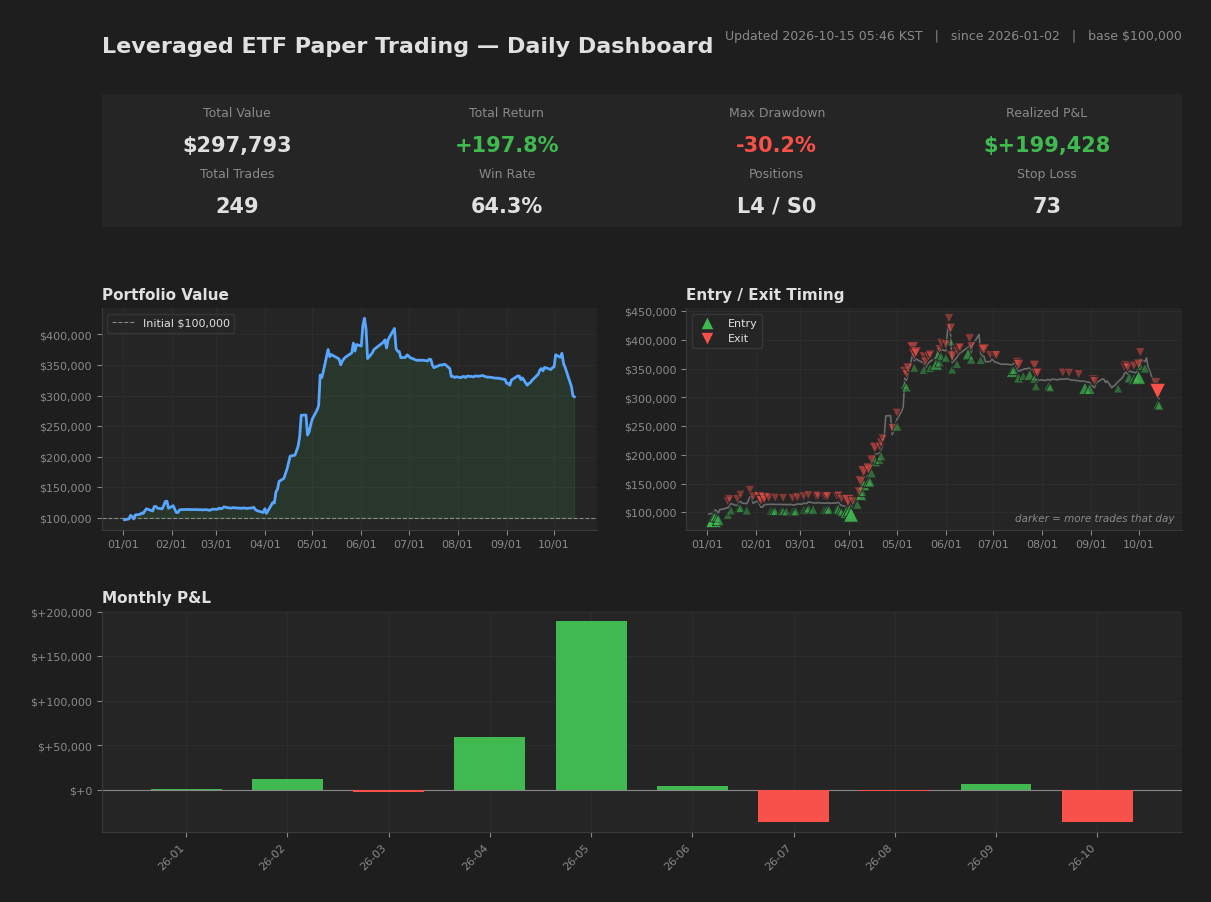
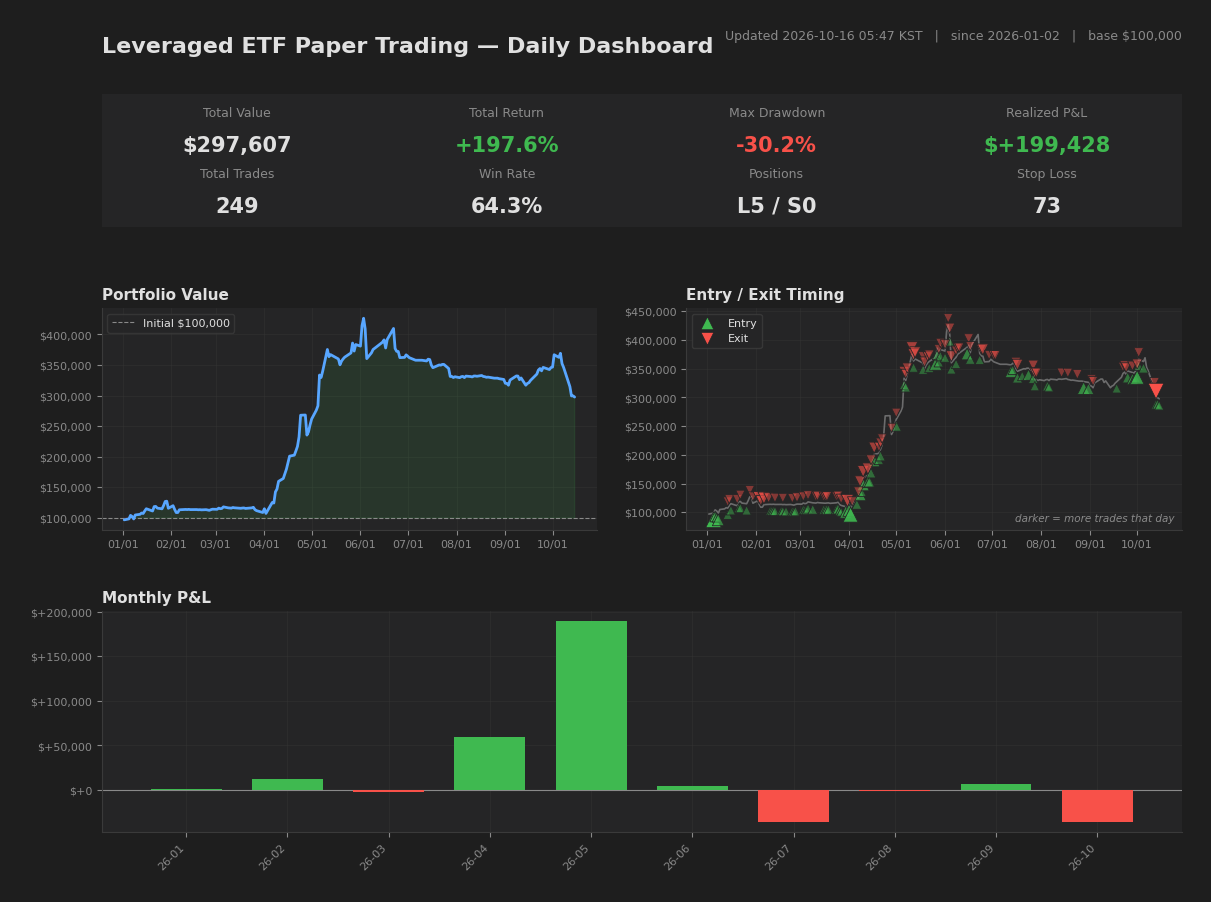
[2026-10-15] Close
Portfolio: $297,607 (+197.6%)
Positions: 5 (L5 S0)
Cumulative: 160/249 wins, P&L: $+199,428
Entries: 1

diff --git a/README.md b/README.md
@@ -19,8 +19,8 @@ Focus on risk management, not headline returns. The strategy targets leveraged E
 Drawdown control vs. benchmark. While the benchmark experienced a maximum drawdown of roughly 40–50% over the same period, this strategy's own drawdown is reported below, measured from the paper-trading equity curve and refreshed automatically after each market close.
 
 <!-- METRICS:BEGIN (auto-generated by snapshot_backup.py after each market close; do not edit by hand) -->
-- Maximum drawdown: **-30.16%** (peak 2026-06-03 -> trough 2026-10-14, still in drawdown at this date)
-- As of **2026-10-14** market close. Updated automatically after each close.
+- Maximum drawdown: **-30.21%** (peak 2026-06-03 -> trough 2026-10-15, still in drawdown at this date)
+- As of **2026-10-15** market close. Updated automatically after each close.
 <!-- METRICS:END -->
 
 Execution costs. Because the strategy holds positions over multi-day periods with low turnover, the impact of slippage and commissions is designed to be limited rather than a primary driver of results.
